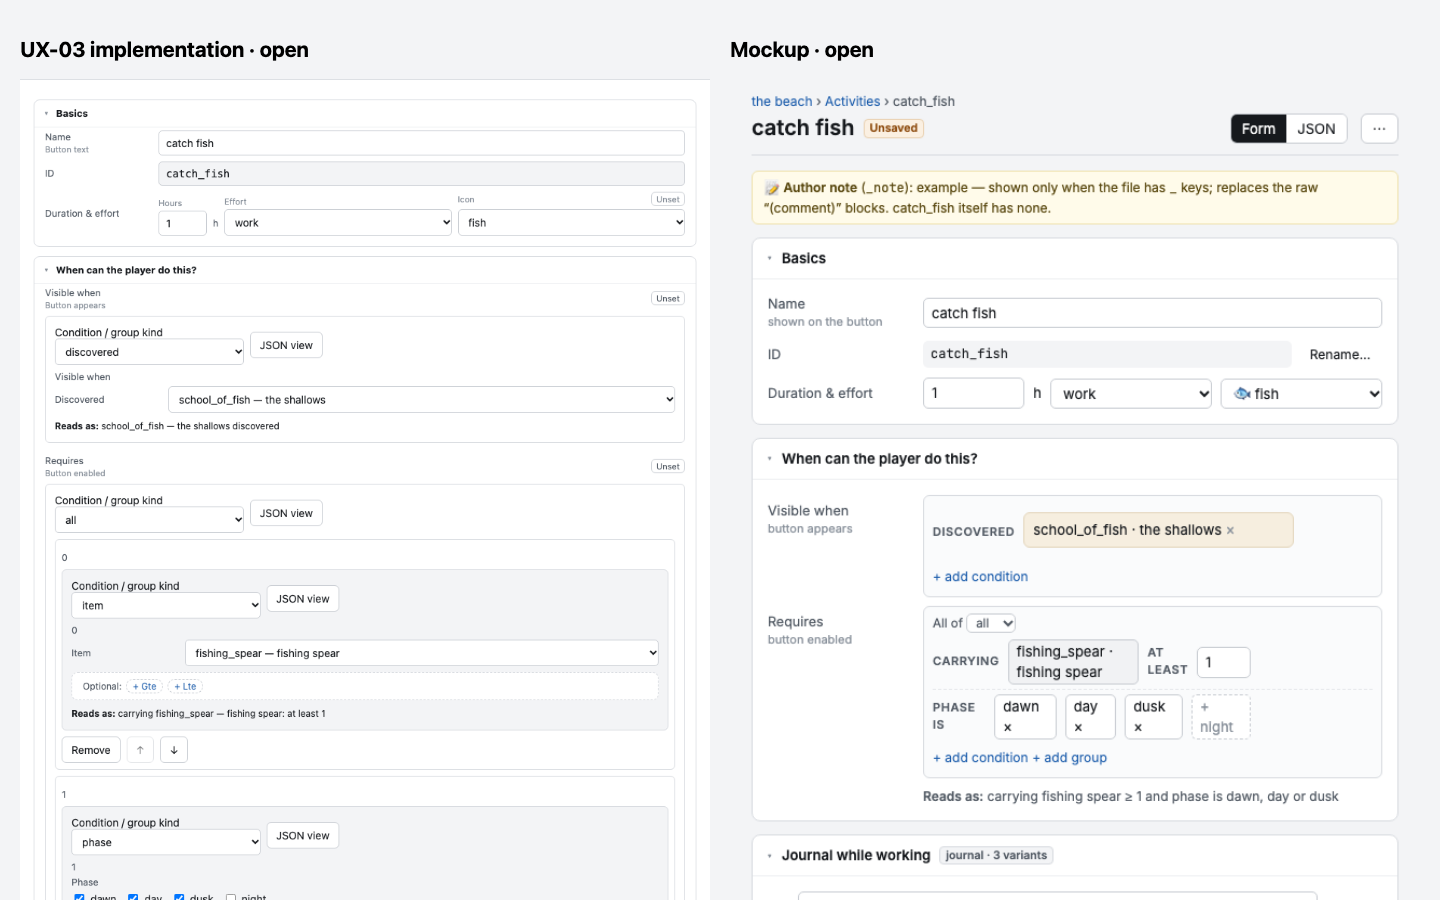
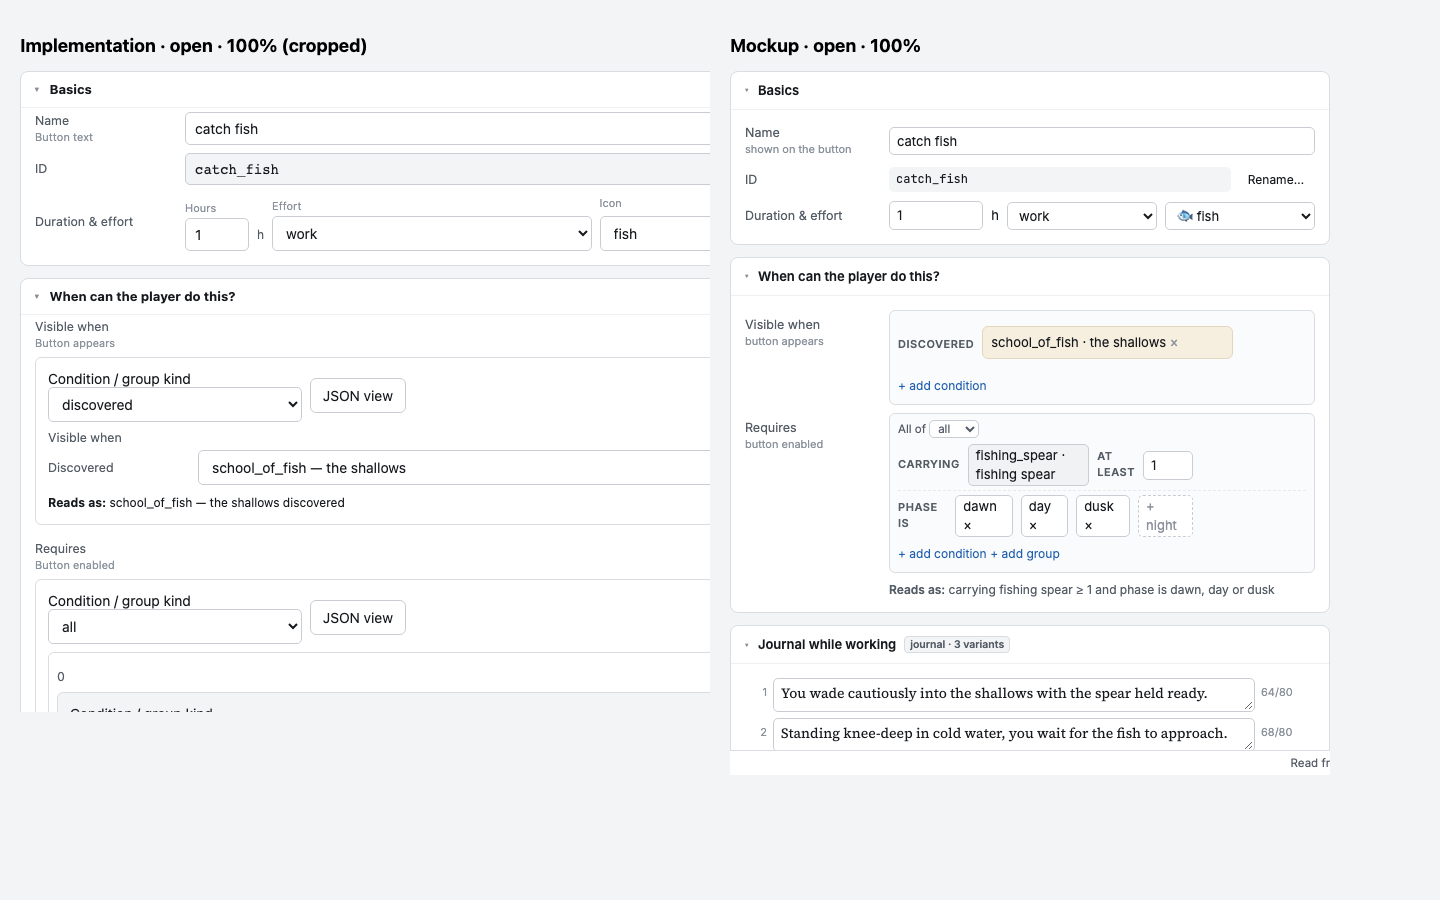
UX-03 review fixes: bare card layout, readable summaries

diff --git a/src/studio/form.tsx b/src/studio/form.tsx
@@ -6,7 +6,7 @@ import type { Document } from "./documents";
 import { branchFor, branchLabel, branches, initialValue, refKind, unwrap, type Schema } from "./schema";
 import { registerWidgets } from "./widgets";
 import { referenceLabel, referenceOptions } from "./references";
-import { hintFor, humanize, sectionsFor, schemaName, type FieldHint } from "./hints";
+import { hintFor, humanize, sectionsFor, schemaName, type Section, type FieldHint } from "./hints";
 import { summarize } from "./summary";
 import { readSections, rememberSection } from "./section-prefs";
 
@@ -63,6 +63,34 @@ function ReferenceField(props: FieldProps) {
     {options.map((id) => <option key={id} value={id}>{referenceLabel(refKind(props.schema)!, id, props.documents)}</option>)}
   </select>;
 }
+export function fileContentsClass(schema: Schema | undefined, mode: string, value: unknown): string {
+  const sectioned = mode === "form" && schema && sectionsFor(schema) && value && typeof value === "object" && !Array.isArray(value)
+    && Object.entries(value).some(([key, entry]) => entry !== undefined && !(key.startsWith("_") && typeof entry === "string"));
+  return `json-panel${sectioned ? " json-panel-bare" : ""}`;
+}
+function OptionalChip({ name, label, add }: { name: string; label: string; add: () => void }) {
+  return <button className="optional-chip" type="button" aria-label={`Add ${name}`} onClick={add}>+ {label}</button>;
+}
+function RootSections({ schema, raw, sections, setKeys, problems, documents, renderFields }: {
+  schema: Schema; raw: Record<string, unknown>; sections: Section[]; setKeys: string[];
+  problems: ContentProblem[]; documents: Document[]; renderFields: (keys: string[]) => ReactNode;
+}) {
+  const shape = (unwrap(schema) as z.ZodObject<z.ZodRawShape>).shape;
+  const grouped = sections.map(section => ({
+    ...section,
+    fields: section.keys.filter(key => setKeys.includes(key) && raw[key] !== undefined && key in shape),
+  }));
+  const listed = new Set(sections.flatMap(section => section.keys));
+  const other = setKeys.filter(key => raw[key] !== undefined && !listed.has(key));
+  grouped.push({ title: "Other", keys: other, fields: other });
+  return grouped.filter(section => section.fields.length).map(section => {
+    const count = problems.filter(problem => section.keys.some(key => problem.path === key || problem.path.startsWith(`${key}.`))).length;
+    return <SectionCard key={`${schemaName(schema)}:${section.title}`} name={schemaName(schema)} title={section.title}
+      preview={summarize(schema, raw, section.fields, documents)} count={count}>
+      {renderFields(section.fields)}
+    </SectionCard>;
+  });
+}
 function SectionCard({ name, title, preview, count, children }: { name?: string; title: string; preview: string; count: number; children: ReactNode }) {
   // This prop stays constant after mount: subsequent native/programmatic toggles belong to the DOM.
   const [initialOpen] = useState(() => !name || !readSections(name).includes(title));
@@ -98,7 +126,7 @@ export function Field(props: FieldProps) {
   const widget = props.skipWidget ? undefined : schemaWidget(schema) ?? (kind ? widgetRegistry.references.get(kind) : undefined);
   const unset = value === undefined && schema.isOptional();
   let scalar = !widget && (Boolean(kind) || depth <= 16 && (node instanceof z.ZodString || node instanceof z.ZodNumber || node instanceof z.ZodBoolean || node instanceof z.ZodEnum || node instanceof z.ZodNativeEnum || node instanceof z.ZodLiteral));
-  if (unset) control = <button className="optional-chip" type="button" aria-label={`Add ${key}`} onClick={() => onChange(initialValue(schema))}>+ {label}</button>;
+  if (unset) control = <OptionalChip name={key} label={label} add={() => onChange(initialValue(schema))} />;
   else if (widget) { const Component = widget; control = <Component {...props} />; }
   else if (kind) control = <ReferenceField {...props} />;
   else if (depth > 16) control = <RawField {...props} />;
@@ -139,15 +167,15 @@ export function Field(props: FieldProps) {
         <div className="field-row-label">{row}</div><div className="field-row-controls">{members.map(member => notes.includes(`_${member}`) ? <div className="field-row-slot" key={member}>{beforeField(member)}{field(member, true)}</div> : field(member, true))}</div>
       </div>;
     });
-    const grouped = sectionHints?.map(section => ({ ...section, keys: section.keys.filter(key => setKeys.includes(key) && raw[key] !== undefined && key in node.shape) }));
-    if (grouped) {
-      const listed = new Set(sectionHints!.flatMap(section => section.keys));
-      grouped.push({ title: "Other", keys: setKeys.filter(key => raw[key] !== undefined && !listed.has(key)) });
-    }
-    control = <div className={`object-fields${grouped ? " sectioned-fields" : ""}`}>
+    control = <div className={`object-fields${sectionHints ? " sectioned-fields" : ""}`}>
       {notes.filter(key => !(key.slice(1) in node.shape)).map(note)}
-      {grouped ? grouped.filter(section => section.keys.length).map(section => <SectionCard key={`${schemaName(schema)}:${section.title}`} name={schemaName(schema)} title={section.title} preview={summarize(schema, raw, section.keys, props.documents)} count={problems.filter(problem => (sectionHints!.find(hint => hint.title === section.title)?.keys ?? section.keys).some(key => problem.path === key || problem.path.startsWith(`${key}.`))).length}>{renderFields(section.keys)}</SectionCard>) : renderFields(setKeys)}
-      {!props.requiredOnly && optional.length > 0 && <div className="optional-fields"><span>Optional:</span>{optional.map(key => notes.includes(`_${key}`) ? <span key={key} className="optional-with-note">{beforeField(key)}<button className="optional-chip" type="button" aria-label={`Add ${key}`} onClick={() => onChange({ ...raw, [key]: initialValue(node.shape[key]) })}>+ {hintFor(schema, key)?.label ?? humanize(key)}</button></span> : <button key={key} className="optional-chip" type="button" aria-label={`Add ${key}`} onClick={() => onChange({ ...raw, [key]: initialValue(node.shape[key]) })}>+ {hintFor(schema, key)?.label ?? humanize(key)}</button>)}</div>}
+      {sectionHints ? <RootSections schema={schema} raw={raw} sections={sectionHints} setKeys={setKeys}
+        problems={problems} documents={props.documents} renderFields={renderFields} /> : renderFields(setKeys)}
+      {!props.requiredOnly && optional.length > 0 && <div className="optional-fields"><span>Optional:</span>{optional.map(key => {
+        const chip = <OptionalChip key={key} name={key} label={hintFor(schema, key)?.label ?? humanize(key)}
+          add={() => onChange({ ...raw, [key]: initialValue(node.shape[key]) })} />;
+        return notes.includes(`_${key}`) ? <span key={key} className="optional-with-note">{beforeField(key)}{chip}</span> : chip;
+      })}</div>}
     </div>;
   } else if (node instanceof z.ZodArray && Array.isArray(value)) control = <div className="array-fields">{value.map((entry, index) => <div className="array-entry" key={index}>
     {child(node.element, entry, [path, index].filter((v) => v !== "").join("."), (next) => onChange(value.map((old, i) => i === index ? next : old)))}

diff --git a/src/studio/main.tsx b/src/studio/main.tsx
@@ -4,7 +4,7 @@ import type { ContentProblem } from "../content";
 import { areaDocuments, kindLabels, readDocuments } from "./documents";
 import { StudioStore } from "./store";
 import { entitySchemas, schemaFor } from "./schema";
-import { Field } from "./form";
+import { Field, fileContentsClass } from "./form";
 import { JsonEditor } from "./json-editor";
 import { readMode, rememberMode, type EditorMode } from "./editor-mode";
 import { CreateDialog, Dialog, RenameDialog } from "./dialogs";
@@ -138,7 +138,7 @@ function Studio() {
       <main className={`document-panel${["story", "trees", "map"].includes(scope) ? " story-panel" : ""}`}>
         {scope === "story" ? <StoryView store={store} documents={documents} open={openProblem} create={(kind, prefill) => setCreate({ kind, prefill })} /> : scope === "trees" ? <TreeEditor documents={documents} edit={(path, raw) => store.edit(path, raw)} open={openProblem} rename={setRenaming} newHere={(kind, tree) => setCreate({ kind, tree })} /> : scope === "map" ? <MapEditor documents={documents} problems={diagnostics} edit={(path, raw) => store.edit(path, raw)} open={path => { const id = documents.find(d => d.path === path)?.id; if (id) browse(`area:${id}`); }} /> : selected ? <>
           <div className="document-heading"><div><p>{kindLabels[selected.kind] ?? selected.kind} / {selected.id}</p><h2>{selected.label}</h2><code>{selected.path}</code></div><div className="row-actions">{selectedSchema && <><button aria-pressed={mode === "form"} onClick={() => setMode("form")}>Form</button><button aria-pressed={mode === "json"} onClick={() => setMode("json")}>JSON</button></>}{entitySchemas[selected.kind] && <><button disabled={store.busy} onClick={() => setCreate({ kind: selected.kind, duplicate: selected.path })}>Duplicate</button><button disabled={store.busy} onClick={() => { setDeleteOrphans(false); setDeleting(selected.path); }}>Delete</button></>}</div></div>
-          <section className="json-panel" aria-label="File contents"><div className="json-heading"><h3>{selected.encoding === "utf8" ? mode === "form" && selected.raw !== undefined ? "Content form" : "JSON" : "Image file"}</h3><span>{status}</span></div>
+          <section className={fileContentsClass(selectedSchema, mode, selected.raw)} aria-label="File contents"><div className="json-heading"><h3>{selected.encoding === "utf8" ? mode === "form" && selected.raw !== undefined ? "Content form" : "JSON" : "Image file"}</h3><span>{status}</span></div>
             {field && <p className="field-location">Field: <code>{field}</code></p>}
             {selectedSchema && selected.encoding === "utf8" && (mode === "json" || selected.raw === undefined) ? <JsonEditor key={selected.path} path={selected.path} text={store.buffersFor(selected.path)[""]?.text ?? (store.drafts.has(selected.path) ? selected.content : selected.formatted)} schema={selectedSchema} problems={diagnostics.filter((p) => p.file === selected.path)} references={(kind, path) => referenceOptions(kind, documents, selected, path)} readOnly={store.busy} reveal={field} onEdit={(text) => store.editJson(selected.path, text)} onSettle={() => store.endTyping()} onProblem={(message) => store.setJsonProblem(selected.path, message)} /> : selectedSchema && selected.raw !== undefined ? <fieldset disabled={store.busy} className="editor-fields" key={`${selected.path}:${historyKey}`}>
               {area && selected.path === area.path ? <AreaWorkspace schema={selectedSchema} value={selected.raw} path="" lockId problems={diagnostics.filter(p => p.file === selected.path)} documents={documents} owner={selected} onChange={raw => store.edit(selected.path, raw)} buffers={store.buffersFor(selected.path)} onError={(path, message, buffer) => store.error(selected.path, path, message, buffer)} open={openProblem} newActivity={() => setCreate({ kind: "activities", areaPath: selected.path })} /> : selected.kind === "events" ? <EventEditor schema={selectedSchema} value={selected.raw} path="" lockId problems={diagnostics.filter(p => p.file === selected.path)} documents={documents} owner={selected} onChange={raw => store.edit(selected.path, raw)} buffers={store.buffersFor(selected.path)} onError={(path, message, buffer) => store.error(selected.path, path, message, buffer)} rename={setRenaming} /> : <Field schema={selectedSchema} value={selected.raw} path="" lockId problems={diagnostics.filter((p) => p.file === selected.path)} documents={documents} owner={selected} onChange={(raw) => store.edit(selected.path, raw)} buffers={store.buffersFor(selected.path)} onError={(path, message, buffer) => store.error(selected.path, path, message, buffer)} />}

diff --git a/tests/studio/widgets.test.ts b/tests/studio/widgets.test.ts
@@ -6,7 +6,7 @@ import { renderToStaticMarkup } from "react-dom/server";
 import { afterAll, expect, it, vi } from "vitest";
 import { z } from "zod";
 import { Activity, Artwork, Item, Site, Condition, Effect, Outcome, Text, formatContent } from "../../src/content";
-import { Field } from "../../src/studio/form";
+import { Field, fileContentsClass } from "../../src/studio/form";
 import { BUILDER_DEPTH, conditionPhrases, describe, effectPhrases, unionKinds } from "../../src/studio/describe";
 import { readDocuments, type Document, type FileDocument } from "../../src/studio/documents";
 import { schemaFor, stripComments, type Schema } from "../../src/studio/schema";
@@ -208,12 +208,16 @@ it("summarizes schema node types through shared hints and descriptions", () => {
   expect(summary("enabled", false)).toBe("");
   expect(summary("effort", "work")).toBe("work");
   expect(summary("reference", "raw_fish")).toBe(referenceLabel("item", "raw_fish", documents));
-  expect(summary("requires", { item: "knife" })).toBe(describe({ item: "knife" }, "condition", documents));
+  expect(summary("requires", { item: "knife" })).toBe("requires: " + describe({ item: "knife" }, "condition", documents));
   expect(summary("effects", [{ flag: "one" }, { unflag: "two" }])).toBe("set flag one, clear flag two");
   for (const text of [["First", "Second"], { id: "text", variants: ["First", "Second"] }, "First"]) expect(summary("text", text)).toBe("“First”");
   expect(summary("text", ["x".repeat(51)])).toBe("“" + "x".repeat(50) + "…”");
   expect(summary("list", ["a", "b"])).toBe("2 list");
   expect(summary("object", {})).toBe("Object");
+  expect(summarize(Activity, { visibleWhen: { discovered: "school_of_fish" } }, ["visibleWhen"], documents)).toBe("visible when: " + describe({ discovered: "school_of_fish" }, "condition", documents));
+  expect(summarize(Activity, { tags: ["kindle"], outcomes: [{}, {}, {}] }, ["tags", "outcomes"], documents)).toBe("1 tag · 3 outcomes");
+  expect(summarize(Item, { actions: [{}] }, ["actions"], documents)).toBe("1 item action");
+  expect(summarize(Item, { actions: [{}, {}] }, ["actions"], documents)).toBe("2 item actions");
 });
 
 it("places root string notes above fields/chips and retains nested and non-string comments", () => {
@@ -269,4 +273,22 @@ it("initializes card DOM from stored collapsed titles and tolerates unavailable 
     html = render(Activity, activity.raw, "");
     expect(html.match(/<details class="form-section" open="">/g)).toHaveLength(4);
   } finally { vi.unstubAllGlobals(); }
+});
+
+it("renders the bare file panel only for sectioned document roots in Form mode", () => {
+  for (const [schema, value, mode, bare] of [
+    [Activity, { name: "test", id: "test", hours: 1 }, "form", true],
+    [Item, { name: "test", id: "test" }, "form", true],
+    [Site, { name: "test", id: "test" }, "form", false],
+    [Artwork, { id: "test", src: "test.png" }, "form", false],
+    [Activity, { name: "test", id: "test" }, "json", false],
+    [Activity, {}, "form", false],
+    [Activity, { _note: "Only a note" }, "form", false],
+    [Activity, null, "form", false],
+  ] as const) {
+    const html = renderToStaticMarkup(createElement("section", { className: fileContentsClass(schema, mode, value), "aria-label": "File contents" },
+      mode === "form" ? createElement(Field, { schema, value, path: "", owner, documents, problems: [], onChange: () => { throw new Error("Render must not edit"); }, onError: () => {} }) : null));
+    expect(html.includes('class="json-panel json-panel-bare"')).toBe(bare);
+    expect(html).toContain('aria-label="File contents"');
+  }
 });

diff --git a/tests/studio-browser/browser.spec.ts b/tests/studio-browser/browser.spec.ts
@@ -1039,3 +1039,30 @@ test("saves only the edited author note, preserving its key position and empty s
     expect((await request.put(`/__studio/files/${path}`, { data: { expectedHash: current.hash, content: original.content, encoding: "utf8" } })).ok()).toBe(true);
   }
 });
+
+test("sectioned forms use bare file panels while JSON and small forms keep their frame", async ({ page }) => {
+  await page.goto("/studio/");
+  await openSectionActivity(page);
+  const contents = page.getByRole("region", { name: "File contents" });
+  await expect(contents).toHaveClass("json-panel json-panel-bare");
+  await expect(contents.getByRole("heading", { name: "Content form", exact: true })).toHaveCount(1);
+  await expect(contents.locator(".json-heading > span")).toHaveText("Read from disk");
+  expect(await contents.evaluate(element => getComputedStyle(element).backgroundColor)).toBe("rgba(0, 0, 0, 0)");
+  await page.getByRole("button", { name: "JSON", exact: true }).click();
+  await expect(contents).toHaveClass("json-panel");
+  await page.getByRole("button", { name: "Form", exact: true }).click();
+  await expect(contents).toHaveClass("json-panel json-panel-bare");
+  const rules = contents.locator(".form-section").filter({ has: page.locator("summary strong", { hasText: "When can the player do this?" }) });
+  await rules.locator("summary").click();
+  await expect(rules.locator(".form-section-preview")).toHaveText(/^visible when: .* · requires: /);
+  await openSectionActivity(page, "strike_fire");
+  const basics = contents.locator(".form-section").filter({ has: page.locator("summary strong", { hasText: /^Basics$/ }) });
+  await basics.locator("summary").click();
+  await expect(basics.locator(".form-section-preview")).toHaveText(/1 tag$/);
+  for (const kind of ["Sites", "Artwork"]) {
+    await page.getByRole("navigation").getByRole("button", { name: new RegExp(`^${kind}`) }).click();
+    await page.getByRole("searchbox").fill("");
+    await page.getByRole("region", { name: "Entity list" }).getByRole("button").first().click();
+    await expect(contents).toHaveClass("json-panel");
+  }
+});

diff --git a/src/studio/summary.ts b/src/studio/summary.ts
@@ -23,7 +23,7 @@ export function summarize(schema: Schema, value: Record<string, unknown>, keys: 
     if (key === "id" || v === undefined || !field) return [];
     const node = unwrap(field), hint = hintFor(schema, key), label = hint?.label ?? humanize(key), kind = refKind(field);
     if (kind && typeof v === "string") return [referenceLabel(kind, v, documents)];
-    if (isNode(field, Condition)) return [describe(v, "condition", documents)];
+    if (isNode(field, Condition)) return [`${label.toLowerCase()}: ${describe(v, "condition", documents)}`];
     if (isNode(field, Text)) {
       const first = typeof v === "string" ? v : Array.isArray(v) ? v[0] : (v as { variants?: unknown[] } | null)?.variants?.[0];
       return typeof first === "string" ? [`“${short(first, 50)}”`] : [];
@@ -32,7 +32,7 @@ export function summarize(schema: Schema, value: Record<string, unknown>, keys: 
     if (typeof v === "string") return [short(v, 40)];
     if (typeof v === "number") return [`${v}${hint?.unit ? ` ${hint.unit}` : ""}`];
     if (typeof v === "boolean") return v ? [label] : [];
-    if (Array.isArray(v)) return [`${v.length} ${label.toLowerCase()}`];
+    if (Array.isArray(v)) return [`${v.length} ${v.length === 1 ? label.toLowerCase().replace(/s$/, "") : label.toLowerCase()}`];
     return [label];
   }).filter(Boolean).join(" · ");
 }

diff --git a/src/studio/studio.css b/src/studio/studio.css
@@ -236,3 +236,11 @@ button.layout-failed { color: var(--studio-error); }
 .field-row-slot { flex: 1 1 100px; }
 .optional-with-note { max-width: 100%; }
 .form-section-summary:focus-visible, .author-note textarea:focus-visible { outline: 2px solid var(--studio-accent); outline-offset: 3px; }
+/* Section cards sit directly on the editor ground; the file region remains accessible. */
+.json-panel-bare { border: 0; background: transparent; padding: 0; overflow: visible; }
+.json-panel-bare > .json-heading { border: 0; padding: 0 0 8px; font-size: 12px; color: var(--studio-muted); }
+.json-panel-bare > .json-heading > h3 { position: absolute; width: 1px; height: 1px; padding: 0; margin: -1px; overflow: hidden; clip-path: inset(50%); white-space: nowrap; border: 0; }
+.json-panel-bare > .editor-fields { padding: 0; }
+.json-panel-bare > .identity-controls, .json-panel-bare > .used-by { background: var(--studio-panel); border: 1px solid var(--studio-border); }
+.json-panel-bare > .identity-controls { margin-top: 18px; border-radius: 8px 8px 0 0; }
+.json-panel-bare > .used-by { border-top: 0; border-radius: 0 0 8px 8px; }

diff --git a/docs/mockups/studio/README.md b/docs/mockups/studio/README.md
@@ -182,8 +182,10 @@ are omitted, with unknown/unlisted set fields in Other. Titles are Basics, When 
 this?, Journal and Results for activities; Basics, Use and Item actions for items. The prompt's
 Journal/Results titles replace the mockup's Journal while working/Outcomes. Generic summaries use
 shared reference labels and `describe()` wording, first Text alternatives and array counts;
-there are no journal/roll badges or bespoke outcome summaries. Existing nested widgets, scalar
-row captions, optional chips, shell and Rename IDs stay as implemented in UX-02 and earlier PRs.
+condition parts begin with their lower-case field label and a colon, and one-entry array counts
+drop the label’s trailing “s”. There are no journal/roll badges or bespoke outcome summaries.
+Existing nested widgets, scalar row captions, optional chips, shell and Rename IDs stay as
+implemented in UX-02 and earlier PRs.
 Region/Landmark and the other entity sections are deferred to UX-03b.
 
 Root string comments become editable Note banners with mono keys. Field-specific comments sit
@@ -193,6 +195,12 @@ remembered per schema; diagnostic/Used by reveal opens enclosing details without
 choice and stays open through subsequent edits. Clearing a note preserves its key and empty
 string. Native summary keyboard activation is retained.
 
+The UX-03 review removes the outer white form frame for sectioned roots: cards sit directly on
+the editor ground. The File contents region and Content form heading remain available to
+assistive technology, while its status is a small muted line above the cards. Non-sectioned forms,
+JSON, Rename IDs and Used by retain their existing presentation. OptionalChip and RootSections
+are small local components; the chip markup and card behavior are unchanged.
+
 Real deviations: none. Water can has no set consume/tool fields, so its empty Use card is omitted
 as specified, while its nested item action keeps its existing form.
 
@@ -201,10 +209,12 @@ Evidence in [ux-03/](ux-03/): [open cards beside mockup](ux-03/cards-open-compar
 [activity open](ux-03/catch-fish-open.png), [activity collapsed](ux-03/catch-fish-collapsed.png),
 [item](ux-03/item-water-can.png), [author note](ux-03/strike-fire-note.png),
 [390px open](ux-03/catch-fish-390.png), [390px collapsed](ux-03/catch-fish-390-collapsed.png).
-Desktop captures use a 1440×900 viewport and disposable fixture content. The 390px captures have
+Desktop captures use a 1440×900 viewport and disposable fixture content. Both comparison panels
+are at 100% scale: the implementation editor column is cropped rather than resized; the mockup
+card column keeps its native width. The 390px captures have
 `document.documentElement.scrollWidth === 390`.
 
 Read-only shipped `content/activities/catch_fish.json` measurement at 1440×900, using
-`.editor-fields.scrollHeight`: UX-02 baseline at `4241ac3` **5,831 px**; UX-03 all open **6,071 px**;
-all four cards collapsed **285 px**. Open cards add their headers/body spacing; nested widget
+`.editor-fields.scrollHeight`: UX-02 baseline at `4241ac3` **5,831 px**; reviewed UX-03 all open **6,016 px**;
+all four cards collapsed **249 px**. Open cards add their headers/body spacing; nested widget
 compaction remains UX-04/UX-05.

diff --git a/docs/STUDIO.md b/docs/STUDIO.md
@@ -93,9 +93,14 @@ same chip style. Adding a field uses the existing empty initial value; **Unset**
 
 Activity and Item root forms group set fields into collapsible cards. Activity cards are Basics,
 When can the player do this?, Journal and Results; Item cards are Basics, Use and Item actions.
+Section cards sit directly on the editor background without an outer form frame. The Content form
+heading stays available to assistive technology, with a muted status line above the cards.
 Empty cards are omitted. Future unlisted fields appear in Other, and the root Optional chip line
 follows all cards. Display order does not reorder the JSON. Nested objects and required-only
 Create forms keep their existing layout; JSON mode remains unchanged.
+
+Condition summary parts start with the lower-case field label and a colon (for example,
+“visible when: …”); array counts drop a trailing “s” for one entry (“1 tag”, “1 item action”).
 
 Cards start open. Collapsed titles are remembered per viewer and schema under
 `studio.sections:<SchemaName>` in localStorage. Closed cards show a short summary of set fields;
